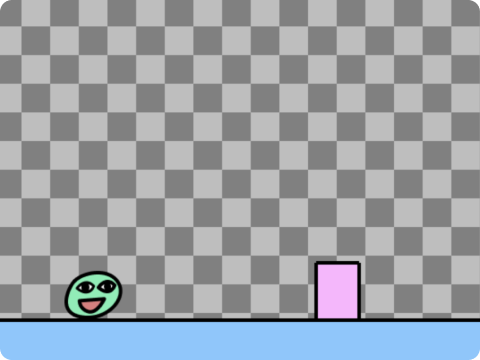
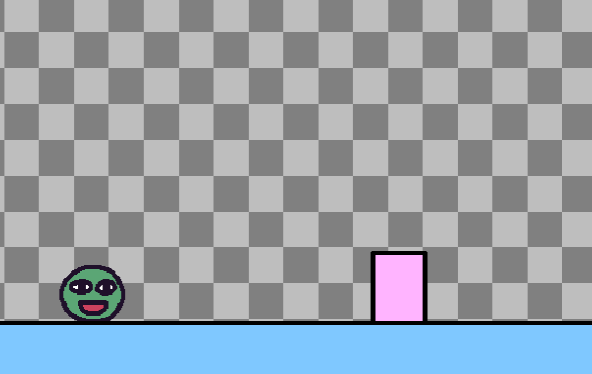
update intro screenshots

diff --git a/doc/intro.md b/doc/intro.md
@@ -33,7 +33,7 @@ add([
 
 Introducing Frog the "Bean"! A happy frog that enjoys life. You'll see Bean a lot around here.
 
-![bean](intro/bean.png)
+![isbean](intro/bean.png)
 
 Before explaining what this code does, let's try adding some more stuff to it and see what happens:
 
@@ -115,6 +115,11 @@ Woah! That looks like a lot, but it's actually really simple, let's look at each
 - `body({ isStatic: true })` the object won't move, and all non static objects won't move past it
 - `color()` makes it render with an RGB color, we give it a R: 127 G: 200 B: 255 which is a blue-ish color
 
+Now, before run, we should define the gravity of our world:
+```js
+setGravity(1600)
+```
+
 Pretty straightforward! Refresh the game and you should see our Bean is now safely landed on a static blue platform.
 
 ![land](intro/land.png)
@@ -193,7 +198,7 @@ The second thing is `shake()`, which just shakes the screen,
 
 Here's a trick. Try pressing `F1` in the game. See all the blue outlines? This is inspect mode and it'll show all the bounding boxes of every game obj with `area()` component. Also try hovering over each game object to inspect its states like position and tags.
 
-![inspect](intro/inspect.png)
+![inspect](intro/debug.png)
 
 Now it's time to add more trees. How can we keep them spawning constantly?
 
@@ -344,7 +349,7 @@ loadSprite("bean", "sprites/bean.png");
 scene("game", () => {
 
 	// define gravity
-	setGravity(2400);
+	setGravity(1600);
 
 	// add a game object to screen
 	const player = add([
